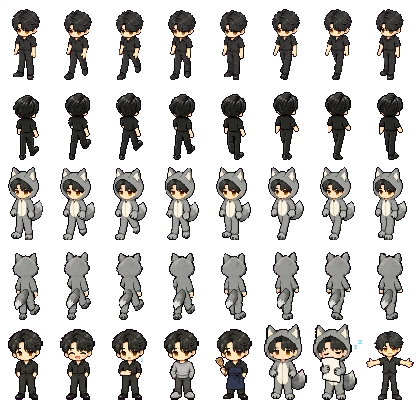
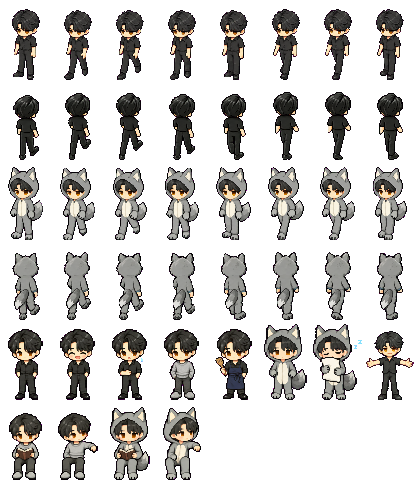
App 0.13.2：湛湛坐上沙發、小房間只留像素版
- 湛湛看書、陪小棠時改成坐在沙發右邊（白天、睡衣各兩張坐姿），之前只能站在茶几旁邊
- 沙發右邊的位置往前挪到坐墊邊緣
- 修正：前一件事抱起兔兔，換下一件事時沒放下，會一直抱著
- 小棠說有像素版就不用 2.5D：拿掉切換鈕，預設像素（ROOM_25D 改 true 可恢復）

Claude-Session: https://claude.ai/code/session_01QnomjsAVHW2wdTHqYaYeWR

diff --git a/room.js b/room.js
@@ -30,11 +30,11 @@ const PEN = [[150, 690], [260, 700], [330, 660], [200, 650], [300, 730], [120, 7
 
 // ---------- 像素版（room-px/）----------
 // 房間圖 384×256，一格＝原圖 4 單位；邏輯座標照舊用 1536×1024。
-const PXV = '2';
+const PXV = '3';
 const PXI = (n) => `room-px/${n}.png?v=${PXV}`;
 // 像素房間的家具位置跟原圖差一點，這些點另外對過
 const SPOTS_PX = {
-  bed: { x: 640, y: 392 }, bedSide: { x: 700, y: 384 }, desk: { x: 312, y: 462 }, sofa: { x: 740, y: 482 }, sofa2: { x: 962, y: 532 },
+  bed: { x: 640, y: 392 }, bedSide: { x: 700, y: 384 }, desk: { x: 312, y: 462 }, sofa: { x: 740, y: 482 }, sofa2: { x: 816, y: 508 },
   stove: { x: 900, y: 382 }, fridge: { x: 1062, y: 404 }, table1: { x: 1170, y: 470 }, table2: { x: 1290, y: 520 },
   door: { x: 1392, y: 612 }, doorIn: { x: 1312, y: 652 }, tarot: { x: 880, y: 642 }, penIn: { x: 230, y: 690 }, penGate: { x: 482, y: 702 },
 };
@@ -42,7 +42,8 @@ const SPOTS_PX = {
 const SHEET = {
   tang: { w: 64, h: 80, W: 512, H: 400, rows: { 'walk-front': 0, 'walk-back': 1, 'pj-walk-front': 2, 'pj-walk-back': 3, poses: 4 },
     poses: { 'tang-normal': 0, 'tang-happy': 1, 'tang-eat': 2, 'tang-phone': 3, 'tang-game': 4, 'tang-bunny': 5, 'tang-sleep': 6 } },
-  zhan: { w: 52, h: 80, W: 416, H: 400, rows: { 'walk-front': 0, 'walk-back': 1, 'pj-walk-front': 2, 'pj-walk-back': 3, poses: 4 },
+  zhan: { w: 52, h: 80, W: 416, H: 480, rows: { 'walk-front': 0, 'walk-back': 1, 'pj-walk-front': 2, 'pj-walk-back': 3, poses: 4, sit: 5 },
+    sit: { 'sit-read': 0, sit: 1, 'sit-read-pj': 2, 'sit-pj': 3 },
     poses: { 'zhan-normal': 0, 'zhan-happy': 1, 'zhan-hungry': 2, 'zhan-home': 3, 'zhan-apron': 4, 'zhan-wolf': 5, 'zhan-wolfsleep': 6, 'zhan-welcome': 7 } },
   pair: { w: 80, h: 80, W: 320, H: 80, poses: { hug: 0, pat: 1, poke: 2, tarot: 3 } },
   bunny: { w: 40, h: 40, W: 280, H: 80, rows: { cheng: 0, peng: 1 }, extra: { 'cheng-happy': 5, 'cheng-nuzzle': 6, 'peng-eat1': 5, 'peng-eat2': 6 } },
@@ -244,6 +245,7 @@ export function createRoom(root, api, mode = '25d') {
     for (const b of list) {
       b.lockedBy = a;
       b.lockUntil = a.until;
+      b.lockAct = a.act;
       b.mode = /抱/.test(t) ? 'hold' : 'near';
       b.nearSet = false;
     }
@@ -428,7 +430,7 @@ export function createRoom(root, api, mode = '25d') {
       for (const b of [cheng, peng]) {
         if (b.lockedBy) {
           const a = b.lockedBy;
-          if (now > b.lockUntil || a.out || a.act == null) { b.lockedBy = null; b.mode = null; walkTo(b, pick(PEN)); b.speed = 160; continue; }
+          if (now > b.lockUntil || a.out || a.act == null || a.act !== b.lockAct) { b.lockedBy = null; b.mode = null; walkTo(b, pick(PEN)); b.speed = 160; continue; }
           if (b.mode === 'near' && !b.nearSet && arrived(a)) { walkTo(b, { x: a.x + (a.x > 700 ? -70 : 70), y: a.y + 18 }); b.speed = 200; b.nearSet = true; }
           continue;
         }
@@ -629,7 +631,7 @@ export function createRoom(root, api, mode = '25d') {
       if (pxHide.has(a) || !here(a)) continue;
       const t = a.text || '';
       let k = null;
-      const held = [cheng, peng].find((b) => b.mode === 'hold' && b.lockedBy === a);
+      const held = [cheng, peng].find((b) => b.mode === 'hold' && b.lockedBy === a && b.lockAct === a.act);
       if (held) k = a === tang ? (held === cheng ? 'tang-hold' : null) : (held === peng ? 'zhan-hold' : null);
       else if (a.act.key === 'bunny') k = a === tang ? (/抱/.test(t) ? 'tang-hold' : /餵|牧草/.test(t) ? 'tang-feed' : 'tang-pet') : (/抱/.test(t) ? 'zhan-hold' : 'zhan-tend');
       if (!k) continue;
@@ -683,11 +685,16 @@ export function createRoom(root, api, mode = '25d') {
         const col = Math.floor(a.walkT * 0.75) % 8;
         // 正面那排本來朝左下、背面那排本來朝右上
         h = pxFrame(a, sheet, col, row, a.back ? a.face < 0 : a.face > 0);
+      } else if (a === zhan && arrived(a) && a.act?.spot === 'sofa2' && ['read', 'watch'].includes(a.act.key)) {
+        // 湛湛坐在沙發右邊：看書或陪小棠
+        const k = `${a.act.key === 'read' ? 'sit-read' : 'sit'}${isNight() ? '-pj' : ''}`;
+        h = pxFrame(a, sheet, SHEET.zhan.sit[k], SHEET.zhan.rows.sit, false);
+        z = 600;
       } else {
         const name = sprite(a, a.act?.sprite);
         const col = SHEET[sheet].poses[name] ?? 0;
         h = pxFrame(a, sheet, col, SHEET[sheet].rows.poses, false);
-        if (arrived(a) && a.act?.spot === 'sofa') z = 600;   // 坐在沙發上，不要被沙發擋住
+        if (arrived(a) && ['sofa', 'sofa2'].includes(a.act?.spot)) z = 600;   // 坐在沙發上，不要被沙發擋住
       }
     } else {
       // 兔兔

diff --git a/app.js b/app.js
@@ -1,6 +1,6 @@
 
-const VERSION = '0.13.1';
-import { createRoom } from './room.js?v=0.13.1';
+const VERSION = '0.13.2';
+import { createRoom } from './room.js?v=0.13.2';
 // 小湛的圖（GPT 畫的，放在 pet/）
 const PET_IMG = {
   shirt: ['normal', 'happy', 'hungry', 'sad'],
@@ -767,12 +767,14 @@ let roomInst = null, roomPxInst = null;
 // 3D 的程式（room3d.js）和模型（room3d/）都還留著，之後做小動畫、小遊戲可以用；
 // 要再打開 3D，把下面的 ROOM_3D 改成 true 就會恢復 3D／2.5D 切換。
 const ROOM_3D = false;
-// 2026/11/20 加了像素版小房間（room-px/），小棠要跟 2.5D 比較，用上面的切換鈕換
-let petSeg = LS.get('zh-petseg', 'room');
-if (!['room', 'px', ...(ROOM_3D ? ['3d'] : [])].includes(petSeg)) petSeg = 'room';
+// 2026/11/20 小房間改成像素版（room-px/）。小棠看過後說「有像素的話，就可以不用 2.5D 了」，
+// 2.5D 的程式和圖都還在；要再打開，把 ROOM_25D 改成 true，上面就會出現「2.5D／像素」切換。
+const ROOM_25D = false;
+let petSeg = LS.get('zh-petseg', 'px');
+if (!['px', ...(ROOM_25D ? ['room'] : []), ...(ROOM_3D ? ['3d'] : [])].includes(petSeg)) petSeg = 'px';
 function renderPetSeg() {
   const b = (k, l) => `<button data-pseg="${k}" class="${petSeg === k ? 'on' : ''}">${l}</button>`;
-  $('#pet-seg').innerHTML = `<div class="seg">${ROOM_3D ? b('3d', '3D') : ''}${b('room', '2.5D')}${b('px', '像素')}</div>`;
+  $('#pet-seg').innerHTML = ROOM_25D || ROOM_3D ? `<div class="seg">${ROOM_3D ? b('3d', '3D') : ''}${ROOM_25D ? b('room', '2.5D') : ''}${b('px', '像素')}</div>` : '';
 }
 let room3dInst = null, room3dLoading = false;
 function roomApi() {

diff --git a/CLAUDE.md b/CLAUDE.md
@@ -8,8 +8,8 @@
 推到 `main` 就會更新網站。
 
 - `index.html`、`style.css`、`app.js`：整個 App（分頁：聊天、小房間、相簿、記帳、心情／行事曆、我們）。
-- `room.js`：2.5D 小房間（會讀班表、生理期、睡眠、紀念日、每天的小故事）。
-- `room-px/`：像素版小房間的圖（2026/11/20 加的，0.13.0）。`room.js` 用 `createRoom(root, api, 'px')` 開像素模式，跟 2.5D 共用同一套行為，小房間上方的切換鈕「2.5D／像素」換（`zh-petseg`）。圖的原檔、格子表和做法在 xiaotang-space 的 `files/pixel-room/` 和 `memory/projects/pixel-room.md`。小棠說兩個都做好再決定要不要換掉 2.5D。
+- `room.js`：小房間（會讀班表、生理期、睡眠、紀念日、每天的小故事）。現在用像素版；2.5D 模式的程式和 `room/` 的圖還在。
+- `room-px/`：像素版小房間的圖（2026/11/20 加的，0.13.0）。`room.js` 用 `createRoom(root, api, 'px')` 開像素模式，跟 2.5D 共用同一套行為，圖的原檔、格子表和做法在 xiaotang-space 的 `files/pixel-room/` 和 `memory/projects/pixel-room.md`。**2026/11/20 小棠決定只留像素版**（「有像素的話，就可以不用 2.5D 了」）：`app.js` 的 `const ROOM_25D = false;`，改成 `true` 會恢復「2.5D／像素」切換。
 - `room3d.js`、`room3d/`：3D 小房間與模型。**2026/11/18 小棠決定拿掉 3D**，程式和模型保留給之後做小動畫、小遊戲；`app.js` 裡 `const ROOM_3D = false;` 改成 `true` 就恢復 3D／2.5D 切換。
 - `stickers/`：貼圖（`stickers.json` 清單＋ `.webp`）。小棠空間的 Claude 分頁也從這裡抓貼圖。
 - `skin/xiaotang-claude.user.js`：claude.ai 的主題腳本（Safari Userscripts、電腦 Tampermonkey、小棠空間的 Claude 分頁三處共用）。`skin/bg/` 是它的背景圖。
@@ -18,7 +18,7 @@
 
 ## 版本與更新
 
-- 改了 App 要同時改 `app.js` 的 `const VERSION` 和 `version.json`（目前 0.13.1）。App 打開或切回來時會比對 `version.json`，不同就自己重新載入，不用重裝。
+- 改了 App 要同時改 `app.js` 的 `const VERSION` 和 `version.json`（目前 0.13.2）。App 打開或切回來時會比對 `version.json`，不同就自己重新載入，不用重裝。
 - 主題腳本改了要把 header 的 `@version` 往上加（目前 0.8.2）。
   - 小棠空間每小時檢查一次 `raw.githubusercontent.com/.../skin/xiaotang-claude.user.js`，版本不同就換新並重新整理 Claude 分頁。
   - raw.githubusercontent.com 有大約 5 分鐘快取，剛推完可能還拿到舊的。
@@ -39,7 +39,7 @@
 ## 小棠的決定與習慣
 
 - 聊天她覺得有點雞肋（GitHub Actions 回得慢），主要改用小棠空間裡的 Claude 分頁；湛湛 App 留著當後備和收推播，聊天功能沒有刪。
-- 3D 小房間不要了，只留 2.5D（見上面）。
+- 3D、2.5D 小房間都不要了，只留像素版（見上面）。
 - 主題腳本修過的坑：外框加 `backdrop-filter` 會讓裡面 `position: fixed` 的面板以外框為定位基準，造成側邊欄展開時一直閃。手機上 Claude Code 縮成一格的側邊欄用 ResizeObserver 加 `data-xt-rail-mini`，讓那一格透明。
 - 小棠會截圖或貼「畫面檢查」的結果（一行一層、★ 是有底色的層），照那個對準修。
 
